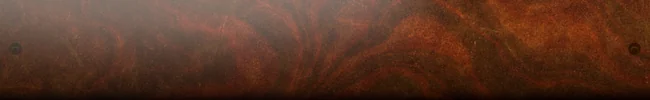
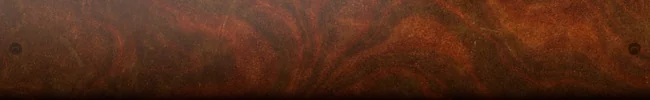
Release v0.1.84

Changed region(s): [[0.0, 0.0, 0.6154, 0.54], [0.5538, 0.33, 0.5846, 0.36], [0.4, 0.48, 0.4308, 0.51]]

diff --git a/styles/ouw25.css b/styles/ouw25.css
@@ -1153,12 +1153,20 @@ body.game .application.ouw25 :is(.ouw25-notes, .ouw25-unluck) .ouw25-wound-slots
   border-radius: 0.35rem;
 }
 
-body.game .application.ouw25 .ouw25-notes .ouw25-merchant-sidebar > button:is(.ouw25-bargain-reference, .ouw25-collision) {
+.ouw25 .ouw25-merchant-tools {
+  display: grid;
+  grid-template-columns: repeat(2, minmax(0, 1fr));
+  gap: var(--ouw25-sidebar-gap);
+}
+
+body.game .application.ouw25 .ouw25-notes .ouw25-merchant-tools > button:is(.ouw25-bargain-reference, .ouw25-collision) {
   --ouw25-card-paper: var(--ouw25-reference-paper);
   justify-content: flex-start;
+  min-width: 0;
   background: var(--ouw25-color-paper) var(--ouw25-card-paper) center top / 100% auto no-repeat;
   border: 0;
   border-radius: 0.35rem;
+  box-shadow: 2px 3px 6px rgba(55, 15, 0, 0.2);
   padding: var(--ouw25-reference-padding);
   color: var(--ouw25-color-ink);
   font-size: 16px;
@@ -1166,11 +1174,11 @@ body.game .application.ouw25 .ouw25-notes .ouw25-merchant-sidebar > button:is(.o
   text-align: start;
 }
 
-body.game .application.ouw25 .ouw25-notes .ouw25-merchant-sidebar > button:is(.ouw25-bargain-reference, .ouw25-collision):hover:not(:disabled) {
+body.game .application.ouw25 .ouw25-notes .ouw25-merchant-tools > button:is(.ouw25-bargain-reference, .ouw25-collision):hover:not(:disabled) {
   color: var(--ouw25-color-ink);
 }
 
-.ouw25 .ouw25-merchant-sidebar > .ouw25-merchant-wounds + .ouw25-sidebar-card {
+.ouw25 .ouw25-merchant-sidebar > .ouw25-merchant-wounds + .ouw25-merchant-tools {
   margin-block-start: calc(var(--ouw25-sidebar-gap) * 1.2);
 }
 
@@ -1978,7 +1986,7 @@ body.game .application.ouw25.ouw25-bargain-dialog .form-footer {
   z-index: 1;
   justify-content: center;
   padding-inline: calc(0.5rem + 20px) calc(0.5rem + 12px + 20px);
-  padding-block: 0.4375rem 0.0625rem;
+  padding-block: calc(0.4375rem + 10.89px) calc(0.0625rem + 10.89px);
 }
 
 body.game .application.ouw25.ouw25-bargain-dialog .form-footer::before {
@@ -2412,9 +2420,14 @@ body.game .application.ouw25 .dialog-content .ouw25-unluck-counts input[type="nu
 body.game .application.ouw25 .dialog-content .ouw25-unluck-counts input[type="number"]::-webkit-inner-spin-button,
 body.game .application.ouw25 .dialog-content .ouw25-unluck-counts input[type="number"]::-webkit-outer-spin-button {
   -webkit-appearance: auto;
-  height: calc(var(--input-height, 2rem) - 4px);
+  height: calc(var(--input-height, 2rem) * 0.9 - 8px);
   margin-block-start: 2px;
   opacity: 1;
+}
+
+body.game .application.ouw25 .dialog-content .ouw25-unluck-counts input[type="number"]::-webkit-inner-spin-button {
+  margin-inline-end: 3px;
+  filter: sepia(0.65) saturate(1.2);
 }
 
 .ouw25-unluck-reels {
